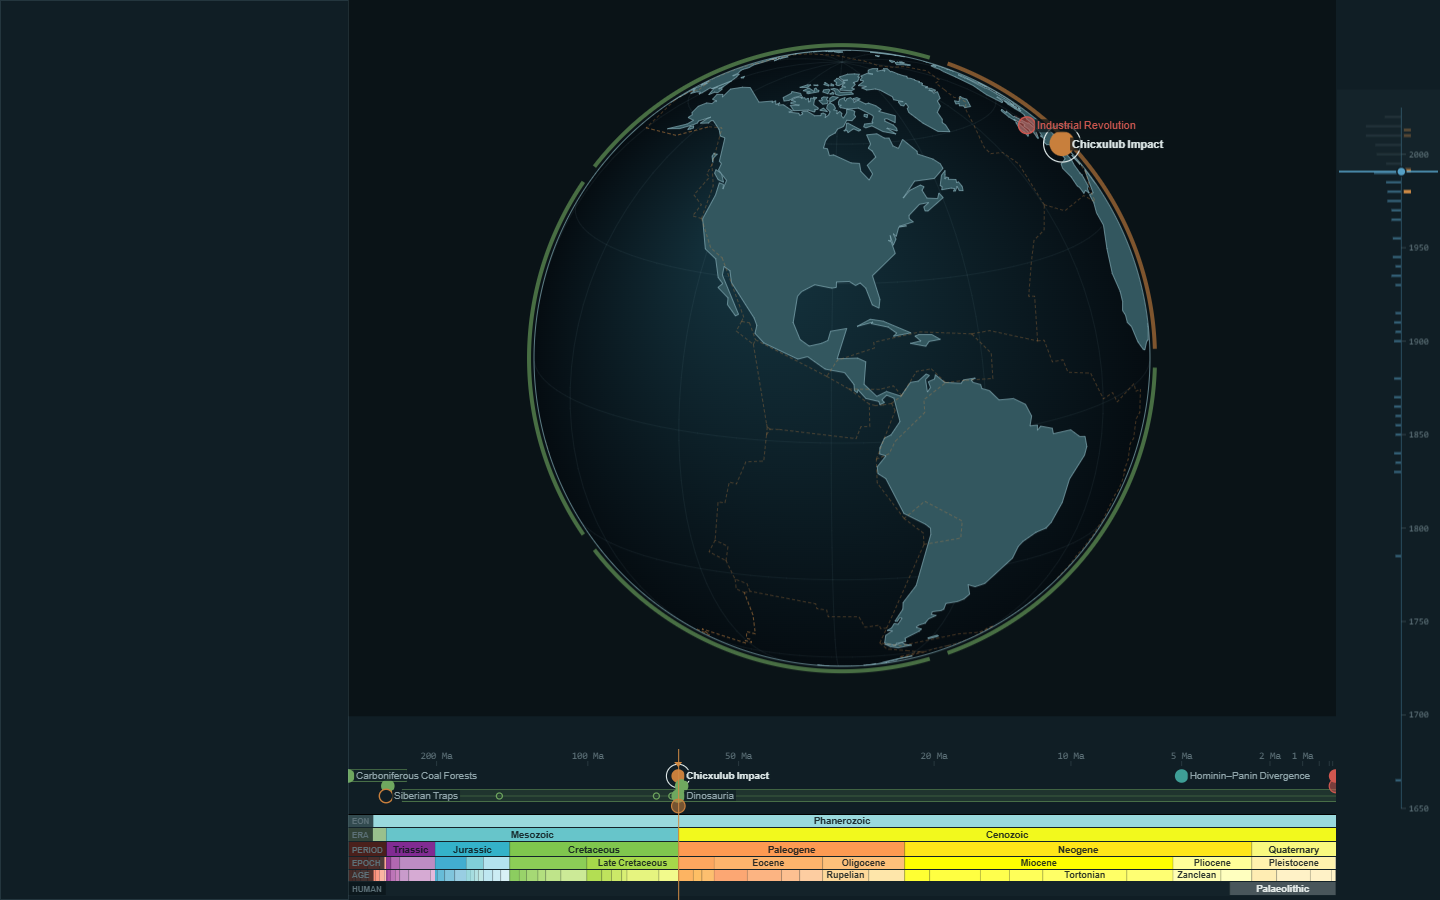
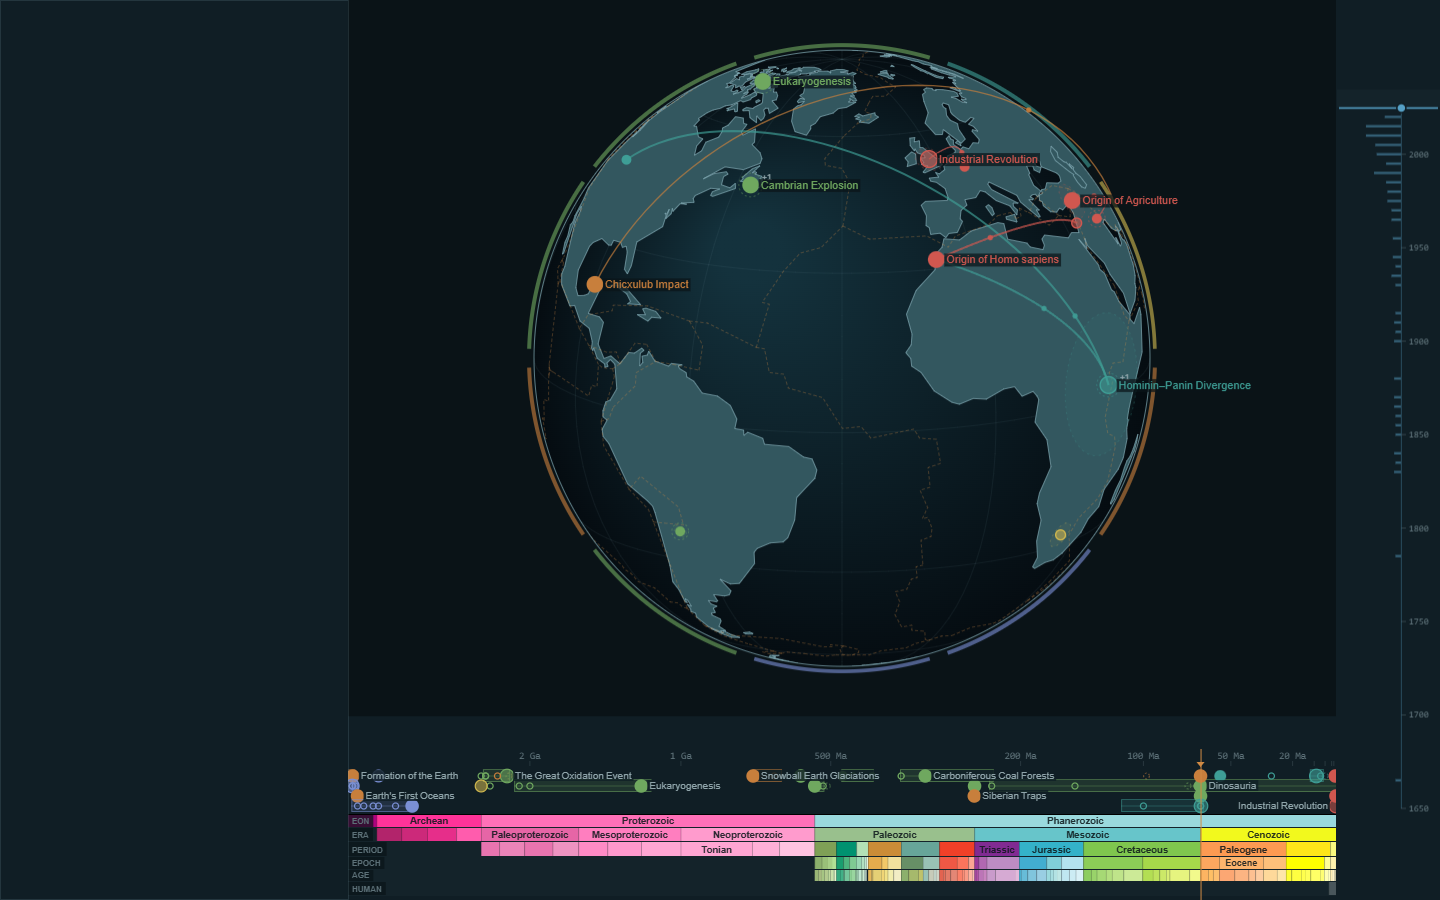
Keep an edge's far endpoint on screen when zoom would cull it
Culling a node by zoom_band silently deleted every edge that reached
it, which hid the best thing in the dataset: at the default full-Earth
view the Deccan Traps sit below the zoom band, so the volcanism link
that dies in 1991 never rendered at all. A live edge with one end on
screen now pulls the other end back, one hop only, drawn small and
unlabelled so it reads as a supporting player.

Superseded edges are now visible on the view you land on: 2 greyed at
2025, and the Deccan arc reads proposed 1975 -> superseded 1991 ->
superseded plus two contested co-driver claims by 2025. Causal edges
at the default view go from 12 to 25; only 9 markers fall on the
visible face at once, so the globe does not crowd.

Also: a band is now the envelope of standing claims, not of every
claim carrying a date, so Kelvin's defeated 98 Ma no longer drags the
formation of the Earth into the Cenozoic; and the globe canvas is
role=application, since arrow keys must reach it.

diff --git a/artifact.html b/artifact.html
@@ -437,8 +437,11 @@ button { background: none; border: none; cursor: pointer; padding: 0; }
 
   <!-- ================================= STAGE ================================== -->
   <main class="stage" id="stage">
-    <canvas id="globe" tabindex="0" role="img"
-            aria-label="Orthographic globe showing dated claims about Earth history. Use arrow keys to rotate, plus and minus to zoom."></canvas>
+    <!-- application, not img: arrow keys must reach the canvas to rotate it,
+         and a screen reader should not swallow them. Selections are announced
+         through the detail panel, which is the aria-live region. -->
+    <canvas id="globe" tabindex="0" role="application"
+            aria-label="Orthographic globe of dated claims about Earth history. Arrow keys rotate, plus and minus zoom, Escape clears the selection."></canvas>
 
     <div class="stage-tl">
       <div class="as-of">As understood in <b id="asof-year">2025</b></div>
@@ -951,6 +954,27 @@ function queryFacts(A) {
   for (const id of order) {
     const it = items[id];
     it.visible = it.inWindow && it.subjectOn && it.zoomOK && !it.aggregatedInto;
+  }
+
+  /* An edge is information, and culling a node by zoom silently deletes every
+     edge that reaches it. That quietly hid the best thing in the dataset: at
+     the default full-Earth view the Deccan Traps sit below the zoom band, so
+     the volcanism link that dies in 1991 never rendered at all. If a live edge
+     has one end on screen, bring the other end back — one hop only, marked so
+     it can be drawn as a supporting player rather than a peer. */
+  for (const e of GRAPH.edges) {
+    if (e.type !== 'causal') continue;
+    const claim = R.claims[e.claim_id];
+    if (!claim || statusAt(claim, A.kt) === null) continue;
+    const a = items[e.source], b = items[e.target];
+    if (!a || !b) continue;
+    for (const [seen, hidden] of [[a, b], [b, a]]) {
+      if (seen.visible && !seen.viaEdge && !hidden.visible &&
+          hidden.inWindow && hidden.subjectOn && !hidden.aggregatedInto) {
+        hidden.visible = true;
+        hidden.viaEdge = true;
+      }
+    }
   }
 
   /* Edges. An edge inherits the status timeline of the claim that asserts it,
@@ -1486,11 +1510,13 @@ function drawGlobe(dt) {
       gx.fillStyle = withAlpha(col, it.dimmed ? 0.03 : 0.055); gx.fill();
     }
 
-    drawMarker(sx, sy, it.res.significance, col, st, {
-      selected: it.id === S.selection,
-      dimmed: it.dimmed,
-      disputed: it.res.disputed
-    });
+    // A node pulled back only to carry an edge is a supporting player.
+    drawMarker(sx, sy, it.viaEdge ? Math.min(it.res.significance, 2) : it.res.significance,
+      col, st, {
+        selected: it.id === S.selection,
+        dimmed: it.dimmed,
+        disputed: it.res.disputed
+      });
 
     if (it.rolledUp) {
       gx.font = `600 9px ${'xt-mono'}, monospace`;
@@ -1501,7 +1527,7 @@ function drawGlobe(dt) {
     HIT.push({ id: it.id, x: sx, y: sy, r: markerRadius(it.res.significance) + 7 });
 
     const strong = it.id === S.selection || it.id === S.hover;
-    if (!it.dimmed && (strong || it.res.significance >= 4))
+    if (!it.dimmed && (strong || (it.res.significance >= 4 && !it.viaEdge)))
       drawLabel(sx, sy, it.ref.label, col, boxes, strong);
   }
 

diff --git a/earth-x-time.html b/earth-x-time.html
@@ -444,8 +444,11 @@ button { background: none; border: none; cursor: pointer; padding: 0; }
 
   <!-- ================================= STAGE ================================== -->
   <main class="stage" id="stage">
-    <canvas id="globe" tabindex="0" role="img"
-            aria-label="Orthographic globe showing dated claims about Earth history. Use arrow keys to rotate, plus and minus to zoom."></canvas>
+    <!-- application, not img: arrow keys must reach the canvas to rotate it,
+         and a screen reader should not swallow them. Selections are announced
+         through the detail panel, which is the aria-live region. -->
+    <canvas id="globe" tabindex="0" role="application"
+            aria-label="Orthographic globe of dated claims about Earth history. Arrow keys rotate, plus and minus zoom, Escape clears the selection."></canvas>
 
     <div class="stage-tl">
       <div class="as-of">As understood in <b id="asof-year">2025</b></div>
@@ -958,6 +961,27 @@ function queryFacts(A) {
   for (const id of order) {
     const it = items[id];
     it.visible = it.inWindow && it.subjectOn && it.zoomOK && !it.aggregatedInto;
+  }
+
+  /* An edge is information, and culling a node by zoom silently deletes every
+     edge that reaches it. That quietly hid the best thing in the dataset: at
+     the default full-Earth view the Deccan Traps sit below the zoom band, so
+     the volcanism link that dies in 1991 never rendered at all. If a live edge
+     has one end on screen, bring the other end back — one hop only, marked so
+     it can be drawn as a supporting player rather than a peer. */
+  for (const e of GRAPH.edges) {
+    if (e.type !== 'causal') continue;
+    const claim = R.claims[e.claim_id];
+    if (!claim || statusAt(claim, A.kt) === null) continue;
+    const a = items[e.source], b = items[e.target];
+    if (!a || !b) continue;
+    for (const [seen, hidden] of [[a, b], [b, a]]) {
+      if (seen.visible && !seen.viaEdge && !hidden.visible &&
+          hidden.inWindow && hidden.subjectOn && !hidden.aggregatedInto) {
+        hidden.visible = true;
+        hidden.viaEdge = true;
+      }
+    }
   }
 
   /* Edges. An edge inherits the status timeline of the claim that asserts it,
@@ -1493,11 +1517,13 @@ function drawGlobe(dt) {
       gx.fillStyle = withAlpha(col, it.dimmed ? 0.03 : 0.055); gx.fill();
     }
 
-    drawMarker(sx, sy, it.res.significance, col, st, {
-      selected: it.id === S.selection,
-      dimmed: it.dimmed,
-      disputed: it.res.disputed
-    });
+    // A node pulled back only to carry an edge is a supporting player.
+    drawMarker(sx, sy, it.viaEdge ? Math.min(it.res.significance, 2) : it.res.significance,
+      col, st, {
+        selected: it.id === S.selection,
+        dimmed: it.dimmed,
+        disputed: it.res.disputed
+      });
 
     if (it.rolledUp) {
       gx.font = `600 9px ${'xt-mono'}, monospace`;
@@ -1508,7 +1534,7 @@ function drawGlobe(dt) {
     HIT.push({ id: it.id, x: sx, y: sy, r: markerRadius(it.res.significance) + 7 });
 
     const strong = it.id === S.selection || it.id === S.hover;
-    if (!it.dimmed && (strong || it.res.significance >= 4))
+    if (!it.dimmed && (strong || (it.res.significance >= 4 && !it.viaEdge)))
       drawLabel(sx, sy, it.ref.label, col, boxes, strong);
   }
 

diff --git a/src/30_model.js b/src/30_model.js
@@ -174,6 +174,27 @@ function queryFacts(A) {
     it.visible = it.inWindow && it.subjectOn && it.zoomOK && !it.aggregatedInto;
   }
 
+  /* An edge is information, and culling a node by zoom silently deletes every
+     edge that reaches it. That quietly hid the best thing in the dataset: at
+     the default full-Earth view the Deccan Traps sit below the zoom band, so
+     the volcanism link that dies in 1991 never rendered at all. If a live edge
+     has one end on screen, bring the other end back — one hop only, marked so
+     it can be drawn as a supporting player rather than a peer. */
+  for (const e of GRAPH.edges) {
+    if (e.type !== 'causal') continue;
+    const claim = R.claims[e.claim_id];
+    if (!claim || statusAt(claim, A.kt) === null) continue;
+    const a = items[e.source], b = items[e.target];
+    if (!a || !b) continue;
+    for (const [seen, hidden] of [[a, b], [b, a]]) {
+      if (seen.visible && !seen.viaEdge && !hidden.visible &&
+          hidden.inWindow && hidden.subjectOn && !hidden.aggregatedInto) {
+        hidden.visible = true;
+        hidden.viaEdge = true;
+      }
+    }
+  }
+
   /* Edges. An edge inherits the status timeline of the claim that asserts it,
      so it appears when that claim was first made and greys out when superseded. */
   const edges = [];

diff --git a/src/40_globe.js b/src/40_globe.js
@@ -451,11 +451,13 @@ function drawGlobe(dt) {
       gx.fillStyle = withAlpha(col, it.dimmed ? 0.03 : 0.055); gx.fill();
     }
 
-    drawMarker(sx, sy, it.res.significance, col, st, {
-      selected: it.id === S.selection,
-      dimmed: it.dimmed,
-      disputed: it.res.disputed
-    });
+    // A node pulled back only to carry an edge is a supporting player.
+    drawMarker(sx, sy, it.viaEdge ? Math.min(it.res.significance, 2) : it.res.significance,
+      col, st, {
+        selected: it.id === S.selection,
+        dimmed: it.dimmed,
+        disputed: it.res.disputed
+      });
 
     if (it.rolledUp) {
       gx.font = `600 9px ${'xt-mono'}, monospace`;
@@ -466,7 +468,7 @@ function drawGlobe(dt) {
     HIT.push({ id: it.id, x: sx, y: sy, r: markerRadius(it.res.significance) + 7 });
 
     const strong = it.id === S.selection || it.id === S.hover;
-    if (!it.dimmed && (strong || it.res.significance >= 4))
+    if (!it.dimmed && (strong || (it.res.significance >= 4 && !it.viaEdge)))
       drawLabel(sx, sy, it.ref.label, col, boxes, strong);
   }
 

diff --git a/src/10_body.html b/src/10_body.html
@@ -31,8 +31,11 @@
 
   <!-- ================================= STAGE ================================== -->
   <main class="stage" id="stage">
-    <canvas id="globe" tabindex="0" role="img"
-            aria-label="Orthographic globe showing dated claims about Earth history. Use arrow keys to rotate, plus and minus to zoom."></canvas>
+    <!-- application, not img: arrow keys must reach the canvas to rotate it,
+         and a screen reader should not swallow them. Selections are announced
+         through the detail panel, which is the aria-live region. -->
+    <canvas id="globe" tabindex="0" role="application"
+            aria-label="Orthographic globe of dated claims about Earth history. Arrow keys rotate, plus and minus zoom, Escape clears the selection."></canvas>
 
     <div class="stage-tl">
       <div class="as-of">As understood in <b id="asof-year">2025</b></div>
